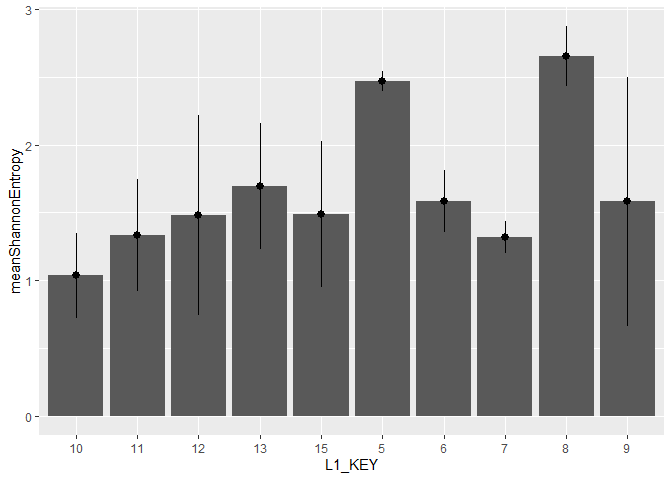
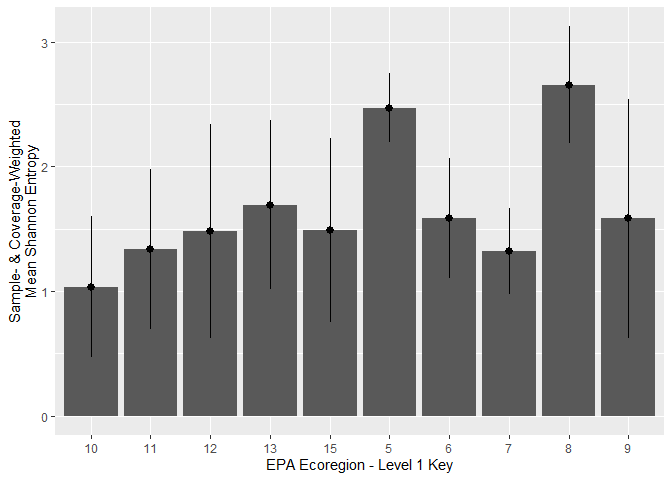
Second iteration of README

diff --git a/README.md b/README.md
@@ -6,7 +6,13 @@
 <!-- badges: start -->
 <!-- badges: end -->
 
-The goal of asgerbachelor is to …
+The goal of this package is to enable much faster work on my bachelors
+project, while at the same time ensuring a more stable and thoughful
+data management system, which is flexible across machines. Furthermore,
+it is my goal that this repository will also end up serving as a sort of
+archive, which can be used for reproducing the work done in my bachelor
+project, and perhaps also serve as an easy way for others to try out the
+FIA dataset in an ecological setting.
 
 ## Installation
 
@@ -15,6 +21,8 @@ You can install the development version of asgerbachelor from
 
 ``` r
 # install.packages("devtools")
+# NOTE: This repository is quite large, since it contains some very detailed polygons for the EPA ecoregions
+# so don't worry if the installation of the package takes a couple of minutes.
 devtools::install_github("asgersvenning/bachelor")
 ```
 
@@ -40,7 +48,8 @@ library(dplyr)
 library(ggplot2)
 
 ## Function for calculating variance of a weighted sample, robust to non-normalized weights.
-## Might be added to the package, since it seems like a common enough operation, even though it is not directly linked to my project.
+## Might be added to the package, since it seems like a common enough operation, even though it 
+## is not directly linked to my project.
 weighted.var <- function(x,w, na.rm=F) {
   if (na.rm) {
     x <- x[!is.na(x)]
@@ -63,10 +72,14 @@ FIA_shannonEntropy <- FIA %>%
   )
 #> `summarise()` has grouped output by 'INVYR'. You can override using the `.groups` argument.
 
+## Aggregate level 1 ecoregions to the inbuilt aggregation grid. 
+## Simplify with sf::st_simplify (dTolerance = 2500) for a massive speedup.
 EPA_level1 <- ecoregionsToGrid(grid = aggregationGrid, level = 1, simplify = 2500)
 #> Warning: attribute variables are assumed to be spatially constant throughout all
 #> geometries
 
+
+## Calculate sample & proportion weighted mean and standard deviation for each ecoregion.
 EPA_level1 %>% 
   select(ID, L1_KEY, proportion) %>% 
   full_join(FIA_shannonEntropy, by = "ID") %>% 
@@ -74,13 +87,14 @@ EPA_level1 %>%
   filter(!is.na(L1_KEY)) %>% 
   summarize(
     meanShannonEntropy = weighted.mean(shannonEntropy, w = proportion * samples, na.rm = T),
-    sdShannonEntropy = weighted.var(shannonEntropy, w = proportion * samples, na.rm = T)
+    sdShannonEntropy = sqrt(weighted.var(shannonEntropy, w = proportion * samples, na.rm = T))
   ) %>% 
   ggplot(aes(L1_KEY, y = meanShannonEntropy,
              ymin = meanShannonEntropy - sdShannonEntropy,
              ymax = meanShannonEntropy + sdShannonEntropy)) +
   geom_col() +
-  geom_pointrange()
+  geom_pointrange() +
+  labs(x = "EPA Ecoregion - Level 1 Key", y = "Sample- & Coverage-Weighted\nMean Shannon Entropy")
 ```
 
 <img src="man/figures/README-example-1.png" width="100%" />
